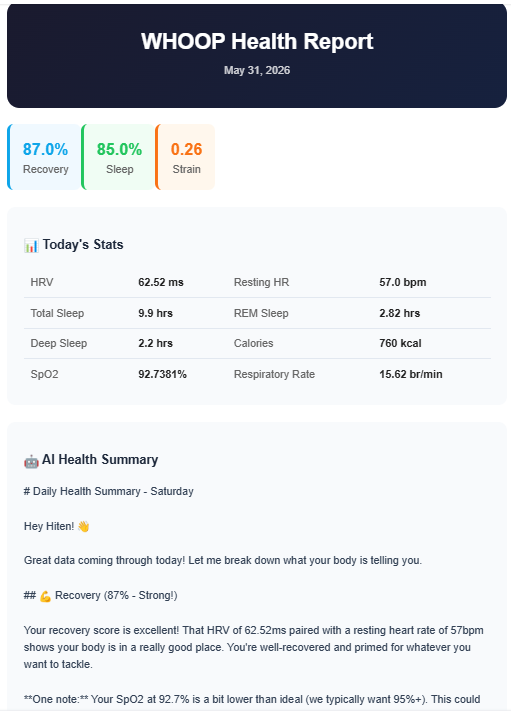
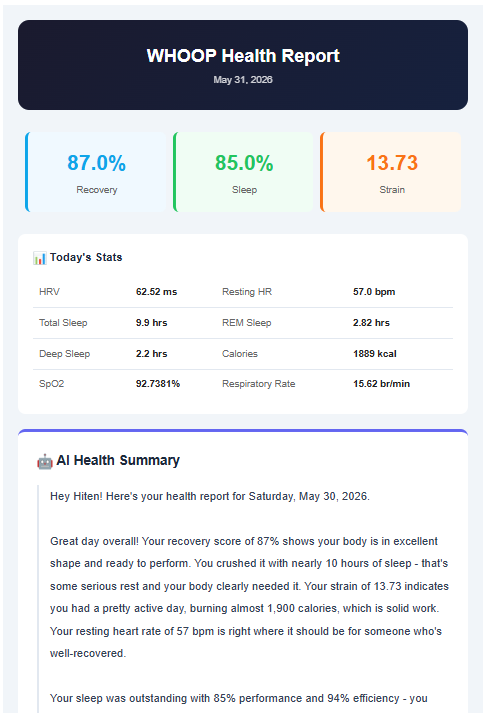
Improve email design and AI summary formatting

diff --git a/email_sender.py b/email_sender.py
@@ -15,83 +15,80 @@ def send_email(summary, whoop_data):
     today = datetime.now().strftime("%B %d, %Y")
     
     msg = MIMEMultipart("alternative")
-    msg["Subject"] = f"🏃 Your WHOOP Health Report — {today}"
+    msg["Subject"] = f"Your WHOOP Health Report - {today}"
     msg["From"] = sender
     msg["To"] = recipient
 
     html = f"""
     <html>
-    <body style="font-family: Arial, sans-serif; max-width: 600px; margin: auto; padding: 20px;">
+    <body style="font-family: Arial, sans-serif; max-width: 600px; margin: auto; padding: 20px; background:#f1f5f9;">
         
         <div style="background: linear-gradient(135deg, #1a1a2e, #16213e); 
-                    color: white; padding: 30px; border-radius: 15px; text-align: center;">
-            <h1 style="margin:0;">WHOOP Health Report</h1>
-            <p style="margin:5px; opacity:0.8;">{today}</p>
+                    color: white; padding: 30px; border-radius: 15px; text-align: center; margin-bottom: 20px;">
+            <h1 style="margin:0; font-size: 24px;">WHOOP Health Report</h1>
+            <p style="margin:5px 0 0 0; opacity:0.8;">{today}</p>
         </div>
 
-        <div style="display: flex; gap: 10px; margin: 20px 0;">
-            
-            <div style="background: #f0f9ff; border-left: 4px solid #0ea5e9; 
-                        padding: 15px; border-radius: 8px; flex: 1; text-align:center;">
-                <h2 style="margin:0; color:#0ea5e9;">{whoop_data['recovery_score']}%</h2>
-                <p style="margin:0; color:#666;">Recovery</p>
-            </div>
+        <table width="100%" cellpadding="0" cellspacing="10" style="margin-bottom: 20px;">
+            <tr>
+                <td width="33%" style="background: #f0f9ff; border-left: 4px solid #0ea5e9;
+                            padding: 20px; border-radius: 8px; text-align:center;">
+                    <div style="color:#0ea5e9; font-size:28px; font-weight:bold;">{whoop_data['recovery_score']}%</div>
+                    <div style="color:#666; font-size:13px; margin-top:5px;">Recovery</div>
+                </td>
+                <td width="33%" style="background: #f0fdf4; border-left: 4px solid #22c55e;
+                            padding: 20px; border-radius: 8px; text-align:center;">
+                    <div style="color:#22c55e; font-size:28px; font-weight:bold;">{whoop_data['sleep_performance']}%</div>
+                    <div style="color:#666; font-size:13px; margin-top:5px;">Sleep</div>
+                </td>
+                <td width="33%" style="background: #fff7ed; border-left: 4px solid #f97316;
+                            padding: 20px; border-radius: 8px; text-align:center;">
+                    <div style="color:#f97316; font-size:28px; font-weight:bold;">{whoop_data['strain']}</div>
+                    <div style="color:#666; font-size:13px; margin-top:5px;">Strain</div>
+                </td>
+            </tr>
+        </table>
 
-            <div style="background: #f0fdf4; border-left: 4px solid #22c55e; 
-                        padding: 15px; border-radius: 8px; flex: 1; text-align:center;">
-                <h2 style="margin:0; color:#22c55e;">{whoop_data['sleep_performance']}%</h2>
-                <p style="margin:0; color:#666;">Sleep</p>
-            </div>
-
-            <div style="background: #fff7ed; border-left: 4px solid #f97316; 
-                        padding: 15px; border-radius: 8px; flex: 1; text-align:center;">
-                <h2 style="margin:0; color:#f97316;">{whoop_data['strain']}</h2>
-                <p style="margin:0; color:#666;">Strain</p>
-            </div>
-
-        </div>
-
-        <div style="background: #f8fafc; padding: 20px; 
-                    border-radius: 10px; margin: 20px 0;">
-            <h3 style="color: #1e293b;">📊 Today's Stats</h3>
+        <div style="background: white; padding: 20px; border-radius: 10px; margin-bottom: 20px;">
+            <h3 style="color: #1e293b; margin-top:0;">📊 Today's Stats</h3>
             <table style="width:100%; border-collapse: collapse;">
                 <tr style="border-bottom: 1px solid #e2e8f0;">
-                    <td style="padding: 8px; color:#666;">HRV</td>
-                    <td style="padding: 8px; font-weight:bold;">{whoop_data['hrv']} ms</td>
-                    <td style="padding: 8px; color:#666;">Resting HR</td>
-                    <td style="padding: 8px; font-weight:bold;">{whoop_data['resting_heart_rate']} bpm</td>
+                    <td style="padding: 10px 8px; color:#666;">HRV</td>
+                    <td style="padding: 10px 8px; font-weight:bold;">{whoop_data['hrv']} ms</td>
+                    <td style="padding: 10px 8px; color:#666;">Resting HR</td>
+                    <td style="padding: 10px 8px; font-weight:bold;">{whoop_data['resting_heart_rate']} bpm</td>
                 </tr>
                 <tr style="border-bottom: 1px solid #e2e8f0;">
-                    <td style="padding: 8px; color:#666;">Total Sleep</td>
-                    <td style="padding: 8px; font-weight:bold;">{whoop_data['total_sleep_hours']} hrs</td>
-                    <td style="padding: 8px; color:#666;">REM Sleep</td>
-                    <td style="padding: 8px; font-weight:bold;">{whoop_data['rem_hours']} hrs</td>
+                    <td style="padding: 10px 8px; color:#666;">Total Sleep</td>
+                    <td style="padding: 10px 8px; font-weight:bold;">{whoop_data['total_sleep_hours']} hrs</td>
+                    <td style="padding: 10px 8px; color:#666;">REM Sleep</td>
+                    <td style="padding: 10px 8px; font-weight:bold;">{whoop_data['rem_hours']} hrs</td>
                 </tr>
                 <tr style="border-bottom: 1px solid #e2e8f0;">
-                    <td style="padding: 8px; color:#666;">Deep Sleep</td>
-                    <td style="padding: 8px; font-weight:bold;">{whoop_data['deep_hours']} hrs</td>
-                    <td style="padding: 8px; color:#666;">Calories</td>
-                    <td style="padding: 8px; font-weight:bold;">{whoop_data['calories']} kcal</td>
+                    <td style="padding: 10px 8px; color:#666;">Deep Sleep</td>
+                    <td style="padding: 10px 8px; font-weight:bold;">{whoop_data['deep_hours']} hrs</td>
+                    <td style="padding: 10px 8px; color:#666;">Calories</td>
+                    <td style="padding: 10px 8px; font-weight:bold;">{whoop_data['calories']} kcal</td>
                 </tr>
                 <tr>
-                    <td style="padding: 8px; color:#666;">SpO2</td>
-                    <td style="padding: 8px; font-weight:bold;">{whoop_data['spo2']}%</td>
-                    <td style="padding: 8px; color:#666;">Respiratory Rate</td>
-                    <td style="padding: 8px; font-weight:bold;">{whoop_data['respiratory_rate']} br/min</td>
+                    <td style="padding: 10px 8px; color:#666;">SpO2</td>
+                    <td style="padding: 10px 8px; font-weight:bold;">{whoop_data['spo2']}%</td>
+                    <td style="padding: 10px 8px; color:#666;">Respiratory Rate</td>
+                    <td style="padding: 10px 8px; font-weight:bold;">{whoop_data['respiratory_rate']} br/min</td>
                 </tr>
             </table>
         </div>
 
-        <div style="background: #f8fafc; padding: 20px; 
-                    border-radius: 10px; margin: 20px 0;">
-            <h3 style="color: #1e293b;">🤖 AI Health Summary</h3>
-            <div style="color: #334155; line-height: 1.6;">
+        <div style="background: white; padding: 25px; border-radius: 10px; margin-bottom: 20px; border-top: 4px solid #6366f1;">
+            <h3 style="color: #1e293b; margin-top:0; font-size:18px;">🤖 AI Health Summary</h3>
+            <div style="color: #334155; line-height: 2.0; font-size: 15px; border-left: 3px solid #e2e8f0; padding-left: 15px;">
                 {summary.replace(chr(10), '<br>')}
             </div>
         </div>
 
-        <div style="text-align:center; color:#94a3b8; font-size:12px; margin-top:20px;">
-            Generated by WHOOP Health Intelligence Agent
+        <div style="text-align:center; background: linear-gradient(135deg, #1a1a2e, #16213e); 
+                    color:white; padding: 15px; border-radius: 10px; font-size:12px; margin-top:20px;">
+            Generated by WHOOP Health Intelligence Agent 🏃
         </div>
 
     </body>
@@ -103,4 +100,4 @@ def send_email(summary, whoop_data):
     with smtplib.SMTP_SSL("smtp.gmail.com", 465) as server:
         server.login(sender, password)
         server.sendmail(sender, recipient, msg.as_string())
-        print("✅ Email sent successfully!")
+        print("Email sent successfully!")

diff --git a/ai.py b/ai.py
@@ -1,13 +1,17 @@
 import anthropic
 import os
+import re
 from dotenv import load_dotenv
+from datetime import datetime, timedelta
 
 load_dotenv()
 
 client = anthropic.Anthropic(api_key=os.getenv("ANTHROPIC_API_KEY"))
 
 def generate_summary(whoop_data, notes):
-    prompt = f"""You are a personal health coach. Analyze this WHOOP health data and write a friendly daily health summary email.
+    yesterday = (datetime.now() - timedelta(days=1)).strftime("%A, %B %d, %Y")
+
+    prompt = f"""You are a personal health coach. Analyze this WHOOP health data from {yesterday} and write a friendly daily health summary email.
 
 PERSON: {whoop_data['name']}
 
@@ -35,11 +39,16 @@ STRAIN:
 PERSONAL NOTES:
 {notes if notes else "No notes today."}
 
-Write a friendly summary with sleep analysis, recovery insights, how notes affected data, and 3 recommendations for tomorrow."""
+Write a concise friendly summary in 3-4 short paragraphs max. Start by mentioning this is the health report for {yesterday}. No markdown formatting, some bullet points, plain text only. Cover: overall assessment, sleep analysis, recovery insights,use emoji as well not too much, and 3 quick recommendations for tomorrow. Make it actionable and easy to understand. Use a warm encouraging tone. Avoid technical jargon."""
 
     message = client.messages.create(
         model="claude-sonnet-4-5",
         max_tokens=1000,
         messages=[{"role": "user", "content": prompt}]
     )
-    return message.content[0].text
+
+    text = message.content[0].text
+    text = re.sub(r'#{1,3}\s*', '', text)
+    text = re.sub(r'\*\*(.*?)\*\*', r'\1', text)
+    text = re.sub(r'\*(.*?)\*', r'\1', text)
+    return text
